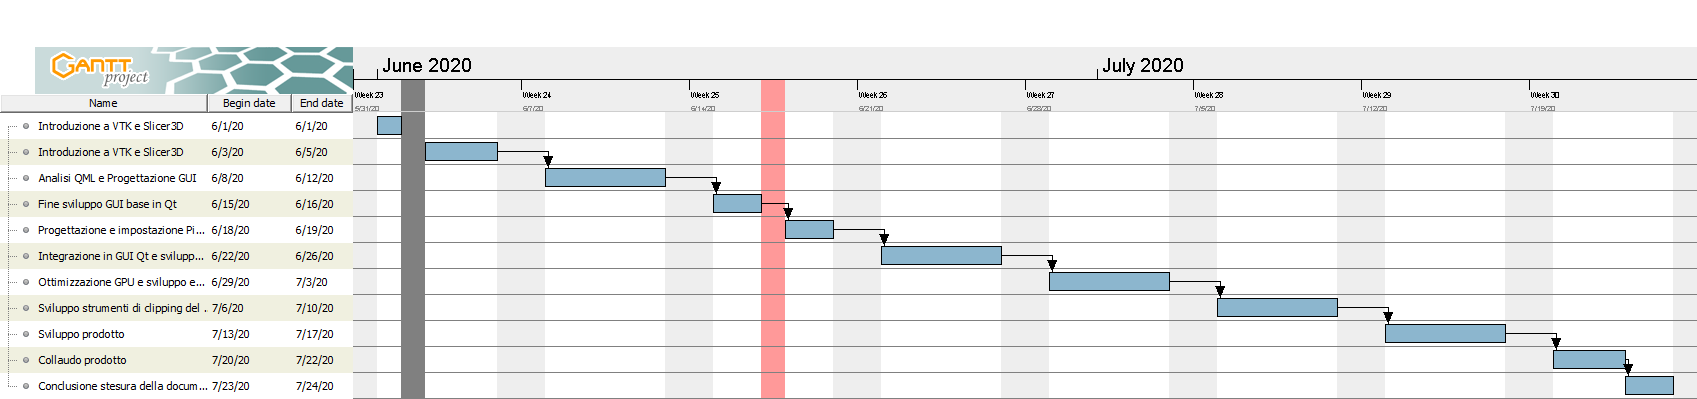
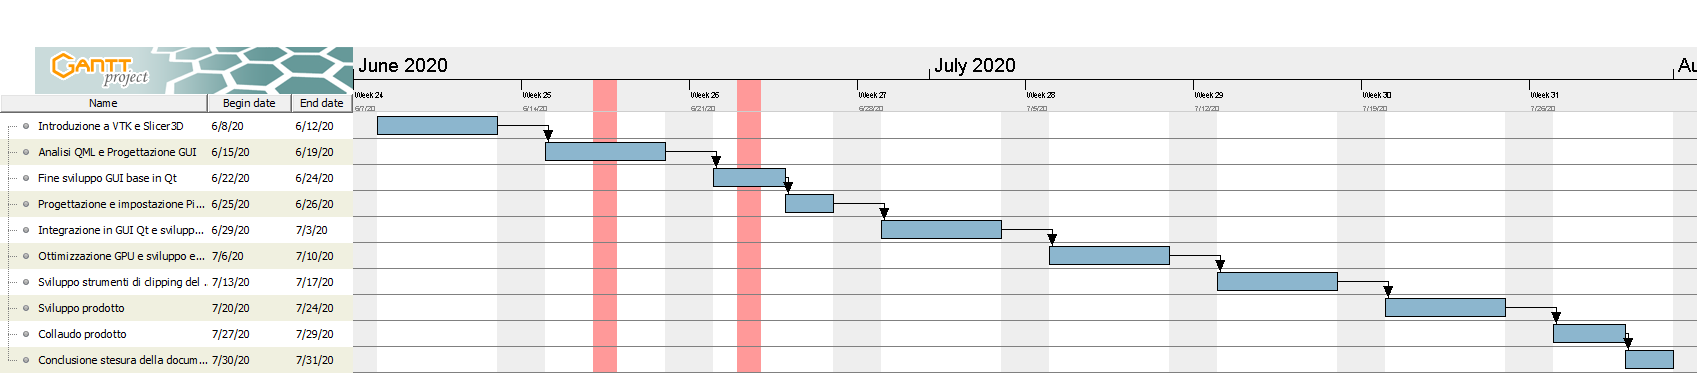
Shift piano di lavoro avanti di una settimana
PERCHE' LA GENTE NON RISPONDE

Changed region(s): [[0.0, 0.118, 1.0, 1.0], [0.9682, 0.9732, 0.9994, 1.0]]

diff --git a/1-PianoDiLavoroStage/Dati.tex b/1-PianoDiLavoroStage/Dati.tex
@@ -24,41 +24,41 @@
      % Personalizzare indicando in lista, i vari task settimana per settimana
      % sostituire a XX il totale ore della settimana
     \begin{itemize}
-        \item \textbf{Prima Settimana - 1-5 Giugno 2020 (32 ore)}
+        \item \textbf{Prima Settimana - 8-12 Giugno 2020 (40 ore)}
         \begin{itemize}
             \item Installazione VTK;
             \item Installazione Slicer3D;
             \item Studio funzionalità librerie;
         \end{itemize}
-        \item \textbf{Seconda Settimana - 8-12 Giugno 2020 (40 ore)} 
+        \item \textbf{Seconda Settimana - 15-19 Giugno 2020 (32 ore)} 
         \begin{itemize}
             \item Analisi QML per possibile integrazione;
             \item Progettazione e inizio sviluppo GUI base in Qt;
         \end{itemize}
-        \item \textbf{Terza Settimana - 15-19 Giugno 2020 (32 ore)} 
+        \item \textbf{Terza Settimana - 22-26 Giugno 2020 (32 ore)} 
         \begin{itemize}
         	\item Fine sviluppo GUI base in Qt;
             \item Progettazione e impostazione Pipeline 3D;
         \end{itemize}
-        \item \textbf{Quarta Settimana - 22-26 Giugno 2020 (40 ore)} 
+        \item \textbf{Quarta Settimana - 29 Giugno - 3 Luglio 2020 (40 ore)} 
         \begin{itemize}
             \item Integrazione in GUI Qt;
             \item Continuazione sviluppo Pipeline;
         \end{itemize}
-        \item \textbf{Quinta Settimana - 29 Giugno - 3 Luglio 2020 (40 ore)} 
+        \item \textbf{Quinta Settimana - 6-10 Luglio 2020 (40 ore)} 
         \begin{itemize}
         	\item Analisi ottimizzazione GPU;
             \item Sviluppo editor delle funzioni di trasferimento;
         \end{itemize}
-        \item \textbf{Sesta Settimana - 6-10 Luglio 2020 (40 ore)} 
+        \item \textbf{Sesta Settimana - 13-17 Luglio 2020 (40 ore)} 
         \begin{itemize}
             \item Sviluppo strumenti di clipping del volume;
         \end{itemize}
-        \item \textbf{Settima Settimana - 13-17 Luglio 2020 (40 ore)} 
+        \item \textbf{Settima Settimana - 20-24 Luglio 2020 (40 ore)} 
         \begin{itemize}
             \item Sviluppo prodotto;
         \end{itemize}
-        \item \textbf{Ottava Settimana - 20-24 Luglio 2020 (40 ore)} 
+        \item \textbf{Ottava Settimana - 27-31 Luglio 2020 (40 ore)} 
         \begin{itemize}
             \item Collaudo prodotto;
             \item Conclusione stesura della documentazione;
